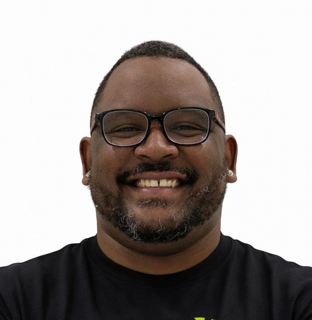
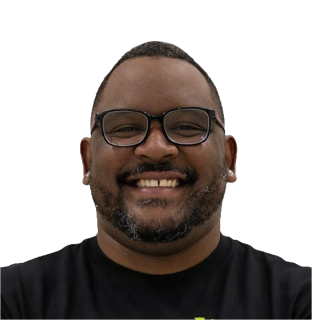
add ruan

diff --git a/src/PagesV2/About/AboutV2.tsx b/src/PagesV2/About/AboutV2.tsx
@@ -7,6 +7,9 @@ import handsOnTrophy from '../../assets/illustrations/hands-on-trophy.svg';
 import './AboutV2.scss';
 import lairPhoto from '../../assets/photos/lair.png';
 import wagnerPhoto from '../../assets/photos/wagner.png';
+import juliaPhoto from '../../assets/photos/julia.png';
+import isaPhoto from '../../assets/photos/isa.png';
+import ruanPhoto from '../../assets/photos/ruan.png';
 
 function AboutV2() {
   return (
@@ -74,85 +77,79 @@ function AboutV2() {
                 <div className="about-v2-team-grid">
                   <div className="about-v2-team-member">
                     <div className="about-v2-team-member-photo">
-                      <img
-                        src={lairPhoto}
-                        alt="Lair Júnior"
-                      />
+                      <img src={lairPhoto} alt="Lair Júnior" />
                     </div>
-                    <h3 className="about-v2-team-member-name">
-                      Lair Júnior
-                    </h3>
-                    <p className="about-v2-team-member-role">Founder</p>
+                    <h3 className="about-v2-team-member-name">Lair Júnior</h3>
+                    <p className="about-v2-team-member-role">Fundador</p>
                     <p className="about-v2-team-member-bio">
-                      Apaixonada por construir em comunidade — seja em times de tecnologia ou nas quadras de basquete.
+                      Apaixonada por construir em comunidade — seja em times de
+                      tecnologia ou nas quadras de basquete.
                     </p>
-                    <p className="about-v2-team-member-bio"><a href="https://www.lairjr.me" target="_blank" rel="noopener noreferrer">Quer me conhecer melhor?</a></p>
-                  </div>
-
-                  <div className="about-v2-team-member">
-                    <div className="about-v2-team-member-photo">
-                      <img
-                        src="https://via.placeholder.com/150"
-                        alt="Nome do Membro 2"
-                      />
-                    </div>
-                    <h3 className="about-v2-team-member-name">
-                      Nome do Membro 2
-                    </h3>
-                    <p className="about-v2-team-member-role">Cargo / Função</p>
                     <p className="about-v2-team-member-bio">
-                      Breve descrição sobre o membro da equipe, suas
-                      responsabilidades e paixão pelo esporte.
+                      <a
+                        href="https://www.lairjr.me"
+                        target="_blank"
+                        rel="noopener noreferrer"
+                      >
+                        Quer me conhecer melhor?
+                      </a>
                     </p>
                   </div>
 
                   <div className="about-v2-team-member">
                     <div className="about-v2-team-member-photo">
-                      <img
-                        src="https://via.placeholder.com/150"
-                        alt="Nome do Membro 3"
-                      />
+                      <img src={isaPhoto} alt="Isadora Paixão" />
                     </div>
                     <h3 className="about-v2-team-member-name">
-                      Nome do Membro 3
+                      Isadora Paixão
                     </h3>
-                    <p className="about-v2-team-member-role">Cargo / Função</p>
+                    <p className="about-v2-team-member-role">
+                      Product Designer
+                    </p>
                     <p className="about-v2-team-member-bio">
-                      Breve descrição sobre o membro da equipe, suas
-                      responsabilidades e paixão pelo esporte.
+                      Transformando problemas em experiências. Obcecada por
+                      entender pessoas. Entre dados, intuição e design também
+                      sou Astróloga.
                     </p>
                   </div>
 
                   <div className="about-v2-team-member">
                     <div className="about-v2-team-member-photo">
-                      <img
-                        src={wagnerPhoto}
-                        alt="Wagner Assis"
-                      />
+                      <img src={ruanPhoto} alt="Ruan Victor" />
                     </div>
                     <h3 className="about-v2-team-member-name">
-                      Wagner Assis
+                      Ruan Victor
                     </h3>
-                    <p className="about-v2-team-member-role">Founding Mobile Engineer</p>
+                    <p className="about-v2-team-member-role">Software Engineer</p>
                     <p className="about-v2-team-member-bio">
-                      Nerd, fã de esportes como basquete e futebol, torcedor do SC Internacional.
+                      The Jedi.
                     </p>
                   </div>
 
                   <div className="about-v2-team-member">
                     <div className="about-v2-team-member-photo">
-                      <img
-                        src="https://via.placeholder.com/150"
-                        alt="Nome do Membro 5"
-                      />
+                      <img src={wagnerPhoto} alt="Wagner Assis" />
                     </div>
-                    <h3 className="about-v2-team-member-name">
-                      Nome do Membro 5
-                    </h3>
-                    <p className="about-v2-team-member-role">Cargo / Função</p>
+                    <h3 className="about-v2-team-member-name">Wagner Assis</h3>
+                    <p className="about-v2-team-member-role">
+                      Mobile Engineer
+                    </p>
                     <p className="about-v2-team-member-bio">
-                      Breve descrição sobre o membro da equipe, suas
-                      responsabilidades e paixão pelo esporte.
+                      Nerd, fã de esportes como basquete e futebol, torcedor do
+                      SC Internacional.
+                    </p>
+                  </div>
+
+                  <div className="about-v2-team-member">
+                    <div className="about-v2-team-member-photo">
+                      <img src={juliaPhoto} alt="Julia Ipê" />
+                    </div>
+                    <h3 className="about-v2-team-member-name">Julia Ipê</h3>
+                    <p className="about-v2-team-member-role">Social Media</p>
+                    <p className="about-v2-team-member-bio">
+                      Conecto pessoas e propósitos por meio da comunicação.
+                      Intensa, apaixonada por gente, por pets e pela vida —
+                      idealizadora na essência e prática na ação.
                     </p>
                   </div>
                 </div>
